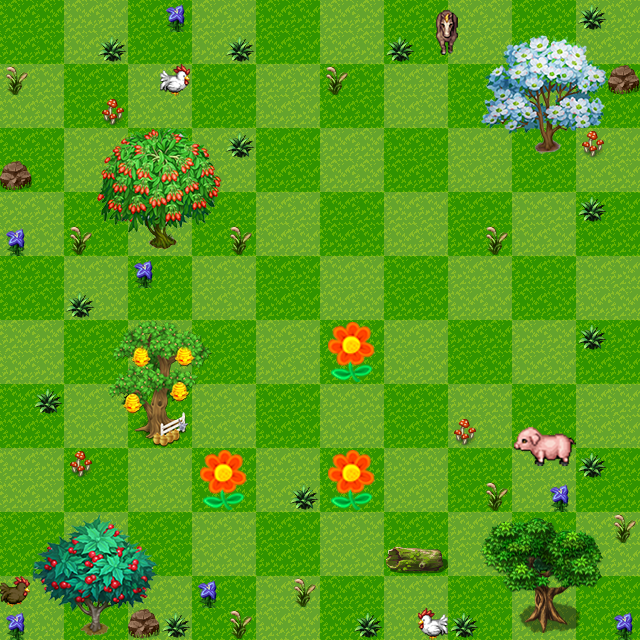
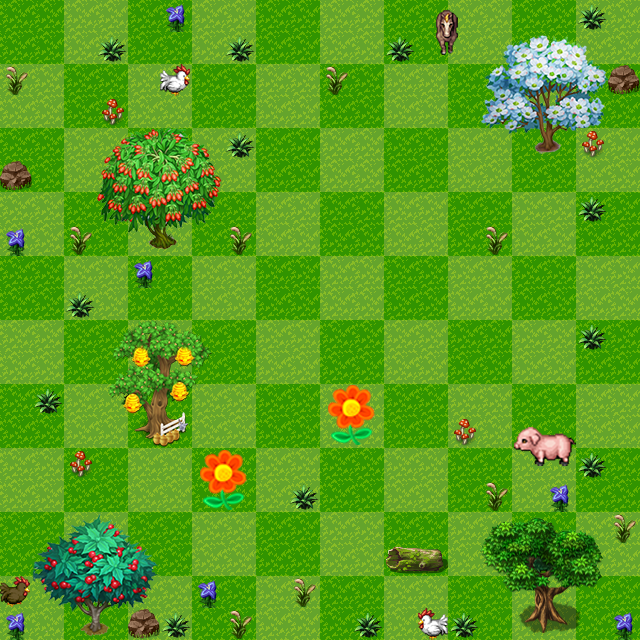
TestMode Level5 updated

Changed region(s): [[0.5, 0.5, 0.5938, 0.8125]]

diff --git a/AlgoZoo/src/algoZoo/test/TestModeGUI.java b/AlgoZoo/src/algoZoo/test/TestModeGUI.java
@@ -93,7 +93,7 @@ public class TestModeGUI extends javax.swing.JPanel {
       TestLevels level2 = new TestLevels(6, 8, 3, 5, new ArrayList<Character>(Arrays.asList('s', 's', 'd', 's', 'd', 'w')), new ArrayList<Character>(Arrays.asList('w', 'a', 'w', 'a', 'w', 'a')), new ArrayList<Character>(Arrays.asList('a', 's', 'd', 'w', 'w', 'a')), new ImageIcon(getClass().getResource("/algoZoo/Maps/TestMode/Level2.png")), 2);
       TestLevels level3 = new TestLevels(4, 6, 8, 5, new ArrayList<Character>(Arrays.asList('s', 'd', 'd', 'w', 'w', 'd', 'd')), new ArrayList<Character>(Arrays.asList('d', 'd', 'a', 's', 's', 's', 'w')), new ArrayList<Character>(Arrays.asList('a', 'a', 's', 's', 's', 'd', 'w')), new ImageIcon(getClass().getResource("/algoZoo/Maps/TestMode/Level3.png")), 3);
       TestLevels level4 = new TestLevels(4, 5, 7, 7, new ArrayList<Character>(Arrays.asList('s', 'd', 'f', 'd', 'f', 's', 'd')), new ArrayList<Character>(Arrays.asList('a', 'a', 's', 'f', 's', 's', 'd')), new ArrayList<Character>(Arrays.asList('w', 'w', 'f', 'd', 'd', 'f', 's')), new ImageIcon(getClass().getResource("/algoZoo/Maps/TestMode/Level4.png")), 4);
-      TestLevels level5 = new TestLevels(6, 4, 3, 7, new ArrayList<Character>(Arrays.asList('a', 's', 'f', 'd', 'd', 's', 'f', 'w', 'a')), new ArrayList<Character>(Arrays.asList('d', 'd', 'f', 'f', 's', 's', 'd', 'w', 'd')), new ArrayList<Character>(Arrays.asList('s', 's', 'f', 'f', 's', 'a', 'f', 'a', 'a')), new ImageIcon(getClass().getResource("/algoZoo/Maps/TestMode/Level5.png")), 5);
+      TestLevels level5 = new TestLevels(6, 4, 3, 7, new ArrayList<Character>(Arrays.asList('a', 's', 'f', 'd', 'd', 's', 'f', 'w', 'a', 'a')), new ArrayList<Character>(Arrays.asList('d', 'd', 'f', 'f', 's', 's', 'd', 'w', 'd', 's')), new ArrayList<Character>(Arrays.asList('s', 's', 's', 'f', 's', 'a', 'a', 'f', 'a', 'w')), new ImageIcon(getClass().getResource("/algoZoo/Maps/TestMode/Level5.png")), 5);
       TestLevels level6 = new TestLevels(6, 5, 2, 7, new ArrayList<Character>(Arrays.asList('a', 's', 'f', 's', 's', 'a', 'f', 'a', 'w', 'a')), new ArrayList<Character>(Arrays.asList('a', 's', 'w', 'f', 'd', 'd', 'a', 's', 'd', 's')), new ArrayList<Character>(Arrays.asList('f', 'w', 'a', 'a', 'a', 'a', 'a', 'a', 'w', 'f')), new ImageIcon(getClass().getResource("/algoZoo/Maps/TestMode/Level6.png")), 6);
       TestLevels level7 = new TestLevels(6, 10, 4, 5, new ArrayList<Character>(Arrays.asList('s', 'w', 's', 'f', 'f', 'd', 'w', 's', 'a', 'w')), new ArrayList<Character>(Arrays.asList('d', 'w', 'd', 'd', 'd', 'd', 'w', 'f', 'w', 'a')), new ArrayList<Character>(Arrays.asList('w', 'w', 'f', 'a', 'w', 'f', 'a', 'w', 'f', 'w')), new ImageIcon(getClass().getResource("/algoZoo/Maps/TestMode/Level7.png")), 7);
       TestLevels level8 = new TestLevels(5, 2, 7, 5, new ArrayList<Character>(Arrays.asList('w', 'w', 'f', 'w', 's', 'd', 'a', 'd', 'f', 's')), new ArrayList<Character>(Arrays.asList('a', 'a', 'd', 'f', 'w', 'w', 'a', 's', 's', 'f')), new ArrayList<Character>(Arrays.asList('a', 's', 'f', 'd', 's', 'f', 's', 'd', 'f', 'd')), new ImageIcon(getClass().getResource("/algoZoo/Maps/TestMode/Level8.png")), 8);
@@ -122,9 +122,8 @@ public class TestModeGUI extends javax.swing.JPanel {
       flowerContainer.add(new Flower(6, 6));
       level4.setFlowers(flowerContainer);
       flowerContainer = new ArrayList<>();
-      flowerContainer.add(new Flower(6, 6));
-      flowerContainer.add(new Flower(6, 6));
-      flowerContainer.add(new Flower(5, 6));
+      flowerContainer.add(new Flower(6, 7));
+      flowerContainer.add(new Flower(4, 8));
       level5.setFlowers(flowerContainer);
       
    }
